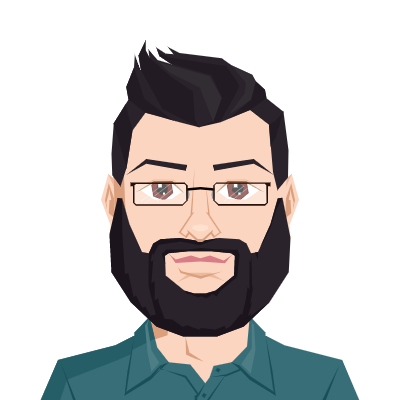
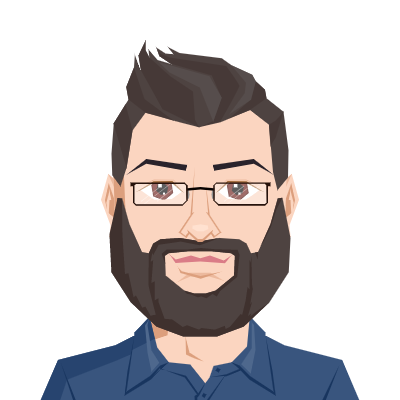
updated css

Changed region(s): [[0.09, 0.12, 0.9, 1.0]]

diff --git a/assets/css/style.css b/assets/css/style.css
@@ -1,0 +1,75 @@
+* {
+    margin: 0;
+    padding: 0;
+    box-sizing: border-box;
+    font-family:Verdana, Geneva, Tahoma, sans-serif
+}
+
+:root {
+    --primary: #02c5f0;
+    --secondary: #002d3a;
+    --tertiary: #ff6d03;
+    --large: 55px;
+}
+
+body {
+    background-color: var(--primary);
+}
+
+/* header styling */
+header {
+    display:flex;
+    flex-wrap: wrap;
+    align-items:baseline;
+    padding: 25px 0px;
+    justify-content: space-between;
+    background-color: var(--secondary)
+}
+
+header h1 {
+    font-size: var(--large);
+    color: var(--tertiary);
+    padding-left: 45px;
+    padding-right: 10px;
+}
+
+header nav ul li a {
+    padding: 0 20px 0 10px;
+    font-size: 40px;
+    color: var(--tertiary);
+    text-decoration: underline;
+}
+
+header nav ul {
+    display: flex;
+    flex-wrap: wrap;
+    align-items: center;
+    justify-content: space-between;
+    list-style: none;
+}
+
+/* hero styling */
+.hero {
+    background-size:cover;
+    padding: 100px;
+    background-position:center;
+    position: relative;
+    background-image: url("../images/background.jpg");
+}
+
+.hero h2 {
+    font-size: 35px;
+    position: absolute;
+    right: 0px;
+    bottom: 5px;
+    background-color: var(--primary);
+    padding: 5px 20px 5px 10px;   
+}
+
+/* title */
+.heading {
+    font-size: 35px;
+    margin-right: 15px;
+    padding-right: 10px;
+    border-right: 5px solid grey;
+}

diff --git a/index.html b/index.html
@@ -24,13 +24,13 @@
                 <li>
                     <a href="#contact-me">Contact Me</a>
                 </li>
+                <li>Resume</li>
             </ul>
         </nav>
     </header>
 
     <!-- hero -->
     <section class="hero">
-        <h2>Full Stack Bootcamp Student</h2>
     </section>
 
     <!-- about me -->
@@ -44,7 +44,7 @@
             </p>
         </div>
         <div>
-            <img src="./assets/images/avatar.png" alt="Avatar representing James"/>
+            <img src="./assets/images/avatar.png" alt="Avatar of James in a blue polo"/>
         </div>
     </section>
 
